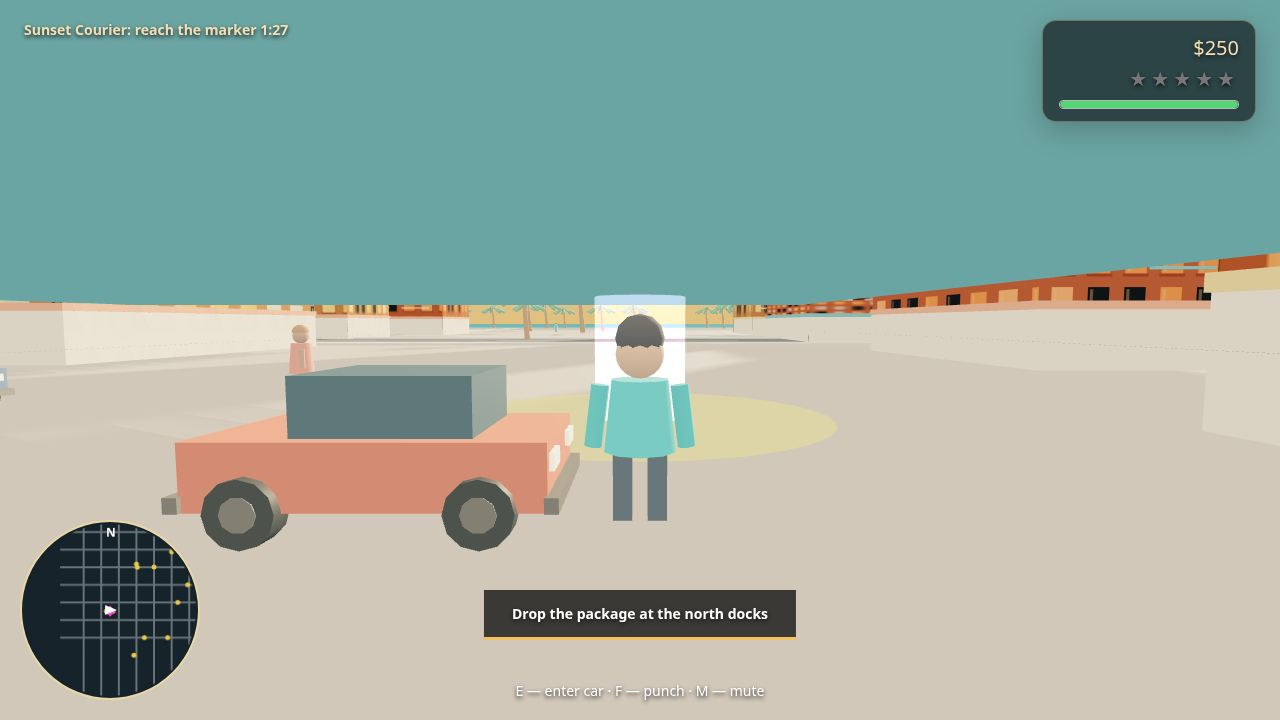
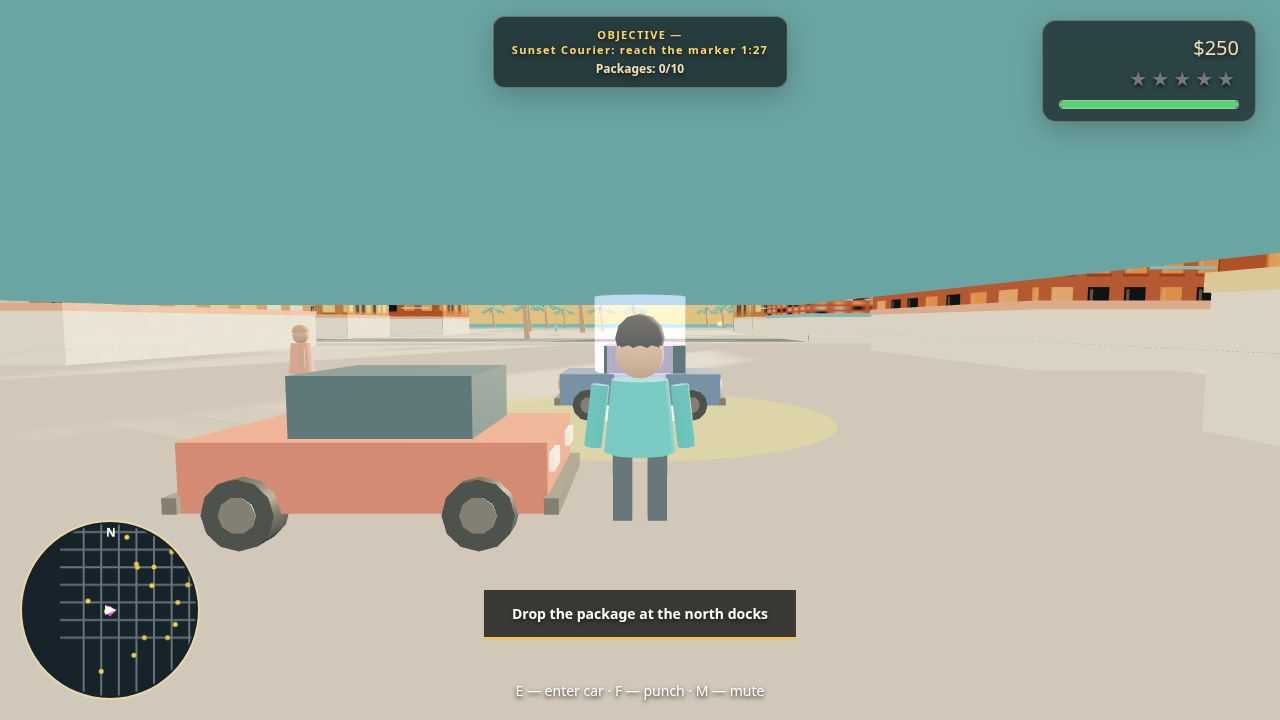
Round 5: side activities (hidden packages + street race), persistent objective HUD, minimap markers, roadblock chase staging

diff --git a/game/index.html b/game/index.html
@@ -6,11 +6,11 @@
 <title>Costa Serena</title>
 <style>
 *{box-sizing:border-box}html,body{margin:0;width:100%;height:100%;overflow:hidden;background:#292c30;color:#f3dfb5;font-family:system-ui,-apple-system,"Segoe UI",sans-serif}#game-canvas{display:block;width:100%;height:100%}#hud{position:fixed;left:24px;top:20px;text-shadow:0 2px 4px #29221d;font-size:14px;pointer-events:none}#debug{position:fixed;right:16px;top:16px;padding:8px 10px;background:#241f1bcc;color:#f5d76e;font:12px ui-monospace,monospace}#debug[hidden]{display:none}#start-screen{position:fixed;inset:0;display:flex;flex-direction:column;align-items:center;justify-content:center;text-align:center;background:linear-gradient(180deg,#8e493d99,#322b2acc);backdrop-filter:blur(4px)}#start-screen.hidden{display:none}h1{margin:0;color:#f0b36e;font-size:clamp(44px,8vw,88px);letter-spacing:.09em;text-shadow:0 5px 0 #793f32}p{margin:8px 0 22px;font-size:18px}.controls{line-height:1.9;color:#eed8ae;margin:0 0 22px}button{border:0;background:#c96f4a;color:#fff0d0;padding:13px 25px;margin:5px;min-width:190px;font:700 15px system-ui;letter-spacing:.06em;cursor:pointer;box-shadow:0 4px 0 #773e32}button:hover{background:#d98558}button[hidden]{display:none}
-#hud{left:0;top:0;width:100%;height:100%;text-shadow:0 2px 4px #171717}#cs-objective{position:absolute;left:24px;top:20px;max-width:40vw;font-weight:700}#cs-stats{position:absolute;right:24px;top:20px;text-align:right;font-size:20px;padding:13px 16px 12px;background:rgba(19,31,35,.72);border:1px solid rgba(255,225,173,.32);border-radius:14px;box-shadow:0 8px 28px rgba(18,24,25,.25);backdrop-filter:blur(7px)}#cs-stars{color:#777;margin-top:4px;letter-spacing:4px}#cs-stars .lit{color:#ffd34d}.cs-health{width:180px;height:9px;margin-top:8px;background:#333;border:1px solid rgba(255,255,255,.65);border-radius:8px;overflow:hidden}.cs-health i{border-radius:8px}.cs-health i{display:block;width:100%;height:100%;background:#57d476}#cs-hint{position:absolute;bottom:20px;left:50%;transform:translateX(-50%);color:#fff}#cs-banner{display:none;position:absolute;bottom:80px;left:50%;transform:translateX(-50%);background:#151515cc;padding:14px 28px;border-bottom:3px solid #f2c35e;color:#fff;font-weight:700}#cs-center{display:none;position:absolute;inset:0;align-items:center;justify-content:center;flex-direction:column;background:#160d0aaa;color:#ffdf96;font-size:clamp(40px,9vw,90px);font-weight:900}#cs-center small{font-size:18px}#cs-flash{position:absolute;inset:0;opacity:0;transition:opacity .2s;box-shadow:inset 0 0 100px 45px #e22;pointer-events:none}#cs-minimap{position:fixed;left:20px;bottom:20px;width:180px;height:180px;border:2px solid #e8d7a9;border-radius:50%;background:#17232a;pointer-events:none}body:has(#cs-minimap){cursor:default}
+#hud{left:0;top:0;width:100%;height:100%;text-shadow:0 2px 4px #171717}#cs-objective{position:absolute;left:50%;top:16px;transform:translateX(-50%);min-width:260px;max-width:min(620px,70vw);padding:10px 18px;background:rgba(19,31,35,.78);border:1px solid rgba(255,225,173,.32);border-radius:12px;text-align:center;font-weight:700;color:#f5dfb4;box-shadow:0 8px 28px rgba(18,24,25,.25);backdrop-filter:blur(7px)}#cs-objective span{display:block}#cs-objective .cs-objective-title{color:#ffd56a;font-size:11px;letter-spacing:.12em}#cs-objective .cs-packages{margin-top:3px;font-size:12px;color:#f3dfb5}#cs-stats{position:absolute;right:24px;top:20px;text-align:right;font-size:20px;padding:13px 16px 12px;background:rgba(19,31,35,.72);border:1px solid rgba(255,225,173,.32);border-radius:14px;box-shadow:0 8px 28px rgba(18,24,25,.25);backdrop-filter:blur(7px)}#cs-stars{color:#777;margin-top:4px;letter-spacing:4px}#cs-stars .lit{color:#ffd34d}.cs-health{width:180px;height:9px;margin-top:8px;background:#333;border:1px solid rgba(255,255,255,.65);border-radius:8px;overflow:hidden}.cs-health i{border-radius:8px}.cs-health i{display:block;width:100%;height:100%;background:#57d476}#cs-hint{position:absolute;bottom:20px;left:50%;transform:translateX(-50%);color:#fff}#cs-banner{display:none;position:absolute;bottom:80px;left:50%;transform:translateX(-50%);background:#151515cc;padding:14px 28px;border-bottom:3px solid #f2c35e;color:#fff;font-weight:700}#cs-center{display:none;position:absolute;inset:0;align-items:center;justify-content:center;flex-direction:column;background:#160d0aaa;color:#ffdf96;font-size:clamp(40px,9vw,90px);font-weight:900}#cs-center small{font-size:18px}#cs-flash{position:absolute;inset:0;opacity:0;transition:opacity .2s;box-shadow:inset 0 0 100px 45px #e22;pointer-events:none}#cs-minimap{position:fixed;left:20px;bottom:20px;width:180px;height:180px;border:2px solid #e8d7a9;border-radius:50%;background:#17232a;pointer-events:none}body:has(#cs-minimap){cursor:default}
 </style>
 </head>
 <body>
 <canvas id="game-canvas"></canvas><div id="hud"></div><div id="debug" hidden></div>
 <section id="start-screen"><h1>COSTA SERENA</h1><p>A sunlit city with a dangerous side.</p><div class="controls">WASD move · Shift run · E enter/exit car · Space handbrake<br>F punch · M mute · Mouse look · Esc pause</div><div><button id="start-story">START STORY</button><button id="continue" hidden>CONTINUE</button><button id="free-roam">FREE ROAM</button></div></section>
-<script src="vendor/three.min.js"></script><script src="src/config.js"></script><script src="src/input.js"></script><script src="src/city.js"></script><script src="src/vehicles.js"></script><script src="src/traffic.js"></script><script src="src/pedestrians.js"></script><script src="src/player.js"></script><script src="src/police.js"></script><script src="src/combat.js"></script><script src="src/missions.js"></script><script src="src/hud.js"></script><script src="src/minimap.js"></script><script src="src/audio.js"></script><script src="src/save.js"></script><script src="src/shots.js"></script><script src="src/main.js"></script>
+<script src="vendor/three.min.js"></script><script src="src/config.js"></script><script src="src/input.js"></script><script src="src/city.js"></script><script src="src/vehicles.js"></script><script src="src/traffic.js"></script><script src="src/pedestrians.js"></script><script src="src/player.js"></script><script src="src/police.js"></script><script src="src/combat.js"></script><script src="src/missions.js"></script><script src="src/hud.js"></script><script src="src/minimap.js"></script><script src="src/audio.js"></script><script src="src/save.js"></script><script src="src/activities.js"></script><script src="src/shots.js"></script><script src="src/main.js"></script>
 </body></html>

diff --git a/game/src/activities.js b/game/src/activities.js
@@ -1,0 +1,77 @@
+(function () {
+  const packageSpots = [
+    { x: -420, z: 650 }, { x: 365, z: 590 }, { x: -510, z: 170 }, { x: 455, z: 120 },
+    { x: -245, z: -265 }, { x: 275, z: -315 }, { x: -75, z: 65 }, { x: 520, z: -145 },
+    { x: -350, z: -520 }, { x: 85, z: 330 }
+  ];
+  const checkpoints = [
+    { x: 185, z: 455 }, { x: 300, z: 360 }, { x: 265, z: 170 },
+    { x: 80, z: 45 }, { x: -175, z: 145 }, { x: -300, z: 390 }
+  ];
+  let packages = [], startRing = null, checkpointRing = null, scene = null;
+  let race = 'idle', checkpoint = 0, timer = 0, elapsed = 0;
+  function makeRing(color, radius) {
+    const ring = new THREE.Mesh(new THREE.TorusGeometry(radius, 0.7, 10, 32), new THREE.MeshBasicMaterial({ color, transparent: true, opacity: .9, depthWrite: false }));
+    ring.rotation.x = Math.PI / 2; ring.position.y = 1.2; return ring;
+  }
+  function makeStartRing() {
+    const group = new THREE.Group(); group.position.set(60, 1.1, 455);
+    for (let i = 0; i < 12; i++) {
+      const arc = new THREE.Mesh(new THREE.TorusGeometry(6, .7, 8, 8, Math.PI * 2 / 12 * .82), new THREE.MeshBasicMaterial({ color: i % 2 ? 0xffd451 : 0xfff0b0, transparent: true, opacity: .95, depthWrite: false }));
+      arc.rotation.x = Math.PI / 2; arc.rotation.z = i * Math.PI * 2 / 12; group.add(arc);
+    }
+    return group;
+  }
+  function init() {
+    scene = CS.main.scene();
+    if (CS.save && typeof CS.save.load === 'function') { const saved = CS.save.load(); if (saved) CS.state.hiddenPackages = saved.hiddenPackages || 0; }
+    const crateMat = new THREE.MeshStandardMaterial({ color: 0xe6a83d, emissive: 0x9a4a0d, emissiveIntensity: .8, metalness: .25, roughness: .35 });
+    const glowTextureCanvas = document.createElement('canvas'); glowTextureCanvas.width = glowTextureCanvas.height = 64;
+    const ctx = glowTextureCanvas.getContext('2d'), gradient = ctx.createRadialGradient(32, 32, 2, 32, 32, 32);
+    gradient.addColorStop(0, 'rgba(255,220,100,.9)'); gradient.addColorStop(1, 'rgba(255,170,30,0)'); ctx.fillStyle = gradient; ctx.fillRect(0, 0, 64, 64);
+    const glowTexture = new THREE.CanvasTexture(glowTextureCanvas);
+    packageSpots.forEach((pos, i) => {
+      const group = new THREE.Group(); group.position.set(pos.x, 0, pos.z);
+      const box = new THREE.Mesh(new THREE.BoxGeometry(1.35, 1.05, 1.15), crateMat); box.position.y = .7; box.castShadow = true; group.add(box);
+      const glow = new THREE.Sprite(new THREE.SpriteMaterial({ map: glowTexture, color: 0xffd86b, transparent: true, opacity: .75, blending: THREE.AdditiveBlending, depthWrite: false }));
+      glow.position.y = 1.1; glow.scale.set(4.8, 4.8, 1); group.add(glow); group.userData.phase = i * .8; scene.add(group);
+      const collected = i < packageCount(); group.visible = !collected; packages.push({ group, position: pos, collected });
+    });
+    startRing = makeStartRing(); scene.add(startRing);
+    checkpointRing = makeRing(0x32e5ff, 7); checkpointRing.visible = false; scene.add(checkpointRing);
+  }
+  function packageCount() { return Math.max(0, Math.min(10, Number(CS.state.hiddenPackages) || 0)); }
+  function packagesLeft() { return Math.max(0, 10 - packageCount()); }
+  function packagePositions() { return packages.filter(item => !item.collected).map(item => item.position); }
+  function raceState() { return race === 'active' ? { active: true, checkpoint: checkpoint + 1, total: checkpoints.length, position: checkpoints[checkpoint], time: timer } : { active: false, state: race }; }
+  function say(text) { if (!(CS.shots && CS.shots.active())) CS.hud.banner(text, 2600); }
+  function persist() { if (CS.save && typeof CS.save.save === 'function') CS.save.save(); }
+  function finish(success) {
+    race = success ? 'complete' : 'failed'; checkpointRing.visible = false;
+    if (success) { CS.state.money = (CS.state.money || 0) + 750; say('Race complete — +$750'); if (CS.audio && CS.audio.sting) CS.audio.sting(); persist(); }
+    else say('Race failed');
+  }
+  function update(dt) {
+    if (!scene) return;
+    elapsed += dt;
+    packages.forEach(item => { if (!item.collected) { item.group.rotation.y += dt * .7; item.group.position.y = Math.sin(elapsed * 2 + item.group.userData.phase) * .18; } });
+    startRing.rotation.z += dt * .18;
+    if (CS.shots && CS.shots.active()) return;
+    const player = CS.player.state, p = player.position;
+    packages.forEach((item, i) => {
+      if (item.collected || Math.hypot(p.x - item.position.x, p.z - item.position.z) >= 4) return;
+      item.collected = true; item.group.visible = false; CS.state.hiddenPackages = packageCount() + 1; CS.state.money = (CS.state.money || 0) + 100;
+      say('Hidden package ' + packageCount() + '/10 — +$100'); if (CS.audio && CS.audio.sting) CS.audio.sting(); persist();
+    });
+    if (race === 'idle' && player.inCar && Math.hypot(p.x - 60, p.z - 455) < 7) { race = 'active'; checkpoint = 0; timer = 90; checkpointRing.visible = true; say('Street race started — 90 seconds'); }
+    if (race !== 'active') return;
+    timer -= dt; if (timer <= 0) { finish(false); return; }
+    const target = checkpoints[checkpoint]; checkpointRing.position.set(target.x, 1.2, target.z);
+    if (Math.hypot(p.x - target.x, p.z - target.z) < 9) {
+      checkpoint++; timer += 8;
+      if (checkpoint >= checkpoints.length) finish(true);
+      else say('Checkpoint ' + checkpoint + '/6');
+    }
+  }
+  CS.activities = { init, update, packageCount, packagesLeft, raceState, packagePositions };
+}());

diff --git a/game/src/shots.js b/game/src/shots.js
@@ -22,11 +22,13 @@
       putTraffic([[0, 12, 455, Math.PI / 2], [1, 22, 455, Math.PI / 2], [2, 31, 455, Math.PI / 2]]);
       putPeople([[0, -7, 482, 1.1], [1, 4, 484, -.7], [2, 16, 481, 2.1], [3, 27, 485, -1.8], [4, -19, 480, .2], [5, 37, 482, 2.8], [6, -31, 484, -1]]);
       camera.position.set(-16, 3.3, 438); camera.lookAt(7, 1.2, 488);
-      CS.hud.banner('Find a set of wheels.', Infinity);
+      CS.hud.banner('Find a set of wheels — the Serena story begins.', Infinity);
     }
     if (shot === 'chase') {
+      CS.missions.startMission(2);
       const car = cars[0]; placeCar(car, 180, -180, -Math.PI / 4); car.userData.speed = 25; car.userData.steer = .6; setPlayer(180, -180, car);
       CS.police.setStars(3); policeCar(186, -194, 0); policeCar(206, -180, -Math.PI / 2);
+      policeCar(196, -164, .6); policeCar(210, -168, -.5);
       putTraffic([[0, 180, -132, Math.PI], [1, 132, -180, Math.PI / 2], [2, 228, -180, -Math.PI / 2]]);
       putPeople([[0, 191, -166, .7], [1, 169, -194, 2.5], [2, 192, -195, -1], [3, 168, -165, 1.5]]);
       camera.position.set(172, 4, -208); camera.lookAt(180, 1, -180);
@@ -37,16 +39,18 @@
       const marker = CS.missions.markerPos(), px = marker.x, pz = marker.z - 8;
       setPlayer(px, pz); CS.player.setView(-Math.PI / 2, .15);
       const car = cars[0]; placeCar(car, px + 3, pz, Math.PI / 2);
-      putTraffic([[0, marker.x + 20, marker.z, Math.PI / 2], [1, marker.x - 25, marker.z, -Math.PI / 2]]);
+      putTraffic([[0, marker.x, marker.z, Math.PI / 2], [1, marker.x - 25, marker.z, -Math.PI / 2]]);
       putPeople([[0, px - 12, pz - 2, 1], [1, px + 12, pz - 2, 2], [2, marker.x + 12, marker.z + 5, -1]]);
-      camera.position.set(px, 2.5, pz - 7); camera.lookAt(marker.x, 1.5, marker.z);
+      // Framing: player, parked car, objective ring, beacon and label all in frame.
+      camera.position.set(px, 2.5, pz - 7);
+      camera.lookAt(marker.x, 1.5, marker.z);
       CS.hud.banner('Drop the package at the north docks', Infinity);
     }
     if (shot === 'city') {
       const car = cars[0]; placeCar(car, 0, 455, -Math.PI / 2); setPlayer(0, 455, car);
-      putTraffic([[0, 18, 455, Math.PI / 2], [1, -27, 455, -Math.PI / 2], [2, 34, 455, Math.PI / 2], [3, 0, 360, 0], [4, 120, 365, Math.PI]]);
-      putPeople([[0, -12, 480, 1], [1, 6, 483, 2], [2, 24, 479, -.5], [3, 36, 484, 2.5], [4, -34, 482, 0], [5, 50, 481, 1.4]]);
-      camera.position.set(18, 52, 518); camera.lookAt(0, 0, 414);
+      putTraffic([[0, 18, 455, Math.PI / 2], [1, -27, 455, -Math.PI / 2], [2, 34, 455, Math.PI / 2], [3, 0, 360, 0], [4, 120, 365, Math.PI], [5, -75, 455, Math.PI / 2], [6, 75, 455, -Math.PI / 2], [7, -35, 360, 0], [8, 155, 365, Math.PI]]);
+      putPeople([[0, -12, 480, 1], [1, 6, 483, 2], [2, 24, 479, -.5], [3, 36, 484, 2.5], [4, -34, 482, 0], [5, 50, 481, 1.4], [6, -48, 478, .8], [7, 68, 484, 2.2], [8, 42, 468, -1], [9, -25, 468, 1.7]]);
+      camera.position.set(18, 44, 518); camera.lookAt(0, 0, 414);
       CS.hud.banner('Welcome to Costa Serena.', Infinity);
     }
   }

diff --git a/game/src/main.js b/game/src/main.js
@@ -8,7 +8,7 @@
     CS.player.create(scene); CS.player.setCamera(camera); CS.input.init(canvas);
     CS.hud.init(); CS.minimap.init(); CS.police.init(scene); CS.audio.init();
     CS.vehicles.spawnParkedCars(scene, 42); CS.traffic.spawn(scene, 22); CS.pedestrians.spawn(scene, 34);
-    CS.main = { init, start, loop, scene: () => scene, camera: () => camera };
+    CS.main = { init, start, loop, scene: () => scene, camera: () => camera }; CS.activities.init();
     const overlay = document.getElementById('start-screen'), continueButton = document.getElementById('continue');
     document.getElementById('start-story').addEventListener('click', () => start('story')); document.getElementById('free-roam').addEventListener('click', () => start('free')); continueButton.addEventListener('click', () => start('continue'));
     if (CS.save.hasSave()) continueButton.hidden = false;
@@ -34,11 +34,11 @@
       const inCar = CS.player.state.inCar; if (inCar && inCar !== lastCar) { CS.police.addHeat(1); CS.audio.pickup(); } lastCar = inCar;
       safeUpdate(CS.traffic.update, dt); safeUpdate(CS.pedestrians.update, dt);
       const ps = CS.player.state; safeUpdate(CS.police.update, dt, ps.position, ps.inCar, ps.inCar ? Math.abs(ps.inCar.userData.speed) : 0);
-      safeUpdate(CS.combat.update, dt); safeUpdate(CS.missions.update, dt); safeUpdate(CS.hud.update, dt); safeUpdate(CS.minimap.update, dt);
+      safeUpdate(CS.combat.update, dt); safeUpdate(CS.missions.update, dt); safeUpdate(CS.activities.update, dt); safeUpdate(CS.hud.update, dt); safeUpdate(CS.minimap.update, dt);
       safeUpdate(() => { CS.audio.engine(ps.inCar ? Math.abs(ps.inCar.userData.speed) / CS.config.car.topSpeed : 0); CS.audio.siren(CS.police.getStars() > 0); CS.audio.ambient(); }, dt);
       saveElapsed += dt; if (saveElapsed >= 15) { CS.save.save(); saveElapsed = 0; }
       scene.traverse(object => { if (object.userData && object.userData.animate) object.userData.animate(time / 1000); });
-    } else if (CS.shots.active()) { safeUpdate(CS.hud.update, dt); safeUpdate(CS.minimap.update, dt); }
+    } else if (CS.shots.active()) { safeUpdate(CS.activities.update, dt); safeUpdate(CS.hud.update, dt); safeUpdate(CS.minimap.update, dt); }
     renderer.render(scene, camera); frames++;
     if (time - fpsTime > 500) { const state = CS.player.state; document.getElementById('debug').textContent = `FPS ${Math.round(frames * 1000 / Math.max(1, time - fpsTime))} | X ${state.position.x.toFixed(1)} Z ${state.position.z.toFixed(1)}`; frames = 0; fpsTime = time; }
   }

diff --git a/game/src/hud.js b/game/src/hud.js
@@ -1,9 +1,10 @@
 (function () {
-  let root, bannerNode, centerNode, flashNode, bannerUntil = 0, centerUntil = 0;
+  let root, bannerNode, centerNode, flashNode, objectiveNode, objectiveText = '', bannerUntil = 0, centerUntil = 0;
   function init() {
     root = document.getElementById('hud');
-    root.innerHTML = '<div id="cs-objective"></div><div id="cs-stats"><div id="cs-money"></div><div id="cs-stars"></div><div class="cs-health"><i id="cs-health-fill"></i></div></div><div id="cs-hint"></div><div id="cs-banner"></div><div id="cs-center"></div><div id="cs-flash"></div>';
+    root.innerHTML = '<div id="cs-objective"><span class="cs-objective-title">OBJECTIVE — <span class="cs-objective-value"></span></span><span class="cs-packages"></span></div><div id="cs-stats"><div id="cs-money"></div><div id="cs-stars"></div><div class="cs-health"><i id="cs-health-fill"></i></div></div><div id="cs-hint"></div><div id="cs-banner"></div><div id="cs-center"></div><div id="cs-flash"></div>';
     bannerNode = document.getElementById('cs-banner'); centerNode = document.getElementById('cs-center'); flashNode = document.getElementById('cs-flash');
+    objectiveNode = document.getElementById('cs-objective');
   }
   function banner(text, ms) {
     bannerNode.textContent = text || '';
@@ -18,8 +19,10 @@
     document.getElementById('cs-money').textContent = '$' + (CS.state.money || 0).toLocaleString('en-US');
     document.getElementById('cs-stars').innerHTML = Array.from({ length: 5 }, (_, i) => '<span class="' + (i < stars ? 'lit' : '') + '">★</span>').join('');
     document.getElementById('cs-health-fill').style.width = Math.max(0, CS.combat ? CS.combat.health : 100) + '%';
-    const objective = CS.missions && CS.missions.currentObjective();
-    document.getElementById('cs-objective').textContent = objective || 'Free roam';
+    const objective = CS.missions && CS.missions.currentObjective() || 'Free roam';
+    if (objective !== objectiveText) { objectiveText = objective; objectiveNode.querySelector('.cs-objective-value').textContent = objective; }
+    const packagesNode = objectiveNode.querySelector('.cs-packages');
+    packagesNode.textContent = typeof CS.activities !== 'undefined' ? 'Packages: ' + CS.activities.packageCount() + '/10' : '';
     const player = CS.player.state;
     document.getElementById('cs-hint').textContent = player.inCar ? 'E — exit car · Space — handbrake' : 'E — enter car  ·  F — punch  ·  M — mute';
     if (performance.now() > bannerUntil) bannerNode.style.display = 'none';

diff --git a/game/src/minimap.js b/game/src/minimap.js
@@ -8,6 +8,10 @@
     CS.city.roadGrid.forEach(road => { ctx.beginPath(); if (road.vertical) { ctx.moveTo(road.x * scale, -100); ctx.lineTo(road.x * scale, 1300 * scale); } else { ctx.moveTo(-700 * scale, road.z * scale); ctx.lineTo(700 * scale, road.z * scale); } ctx.stroke(); });
     CS.traffic.cars.forEach(car => dot(car.position, '#e9c948', scale)); CS.police.cars().forEach(car => dot(car.position, '#49a6ff', scale));
     const marker = CS.missions.markerPos(); if (marker) { ctx.fillStyle = '#ff42d2'; ctx.save(); ctx.translate(marker.x * scale, marker.z * scale); ctx.rotate(Math.PI / 4); ctx.fillRect(-4, -4, 8, 8); ctx.restore(); }
+    if (typeof CS.activities !== 'undefined') {
+      CS.activities.packagePositions().forEach(pos => dot(pos, '#ffd34d', scale));
+      const race = CS.activities.raceState(); if (race.active && race.position) dot(race.position, '#32e5ff', scale);
+    }
     ctx.restore(); ctx.save(); ctx.translate(90, 90); ctx.rotate(-CS.player.state.yaw); ctx.fillStyle = '#fff'; ctx.beginPath(); ctx.moveTo(0, -7); ctx.lineTo(-5, 5); ctx.lineTo(5, 5); ctx.fill(); ctx.restore();
     ctx.fillStyle = '#fff'; ctx.font = 'bold 12px system-ui'; ctx.fillText('N', 86, 15);
   }

diff --git a/game/src/save.js b/game/src/save.js
@@ -3,7 +3,7 @@
   function save() {
     try {
       const p = CS.player.state.position;
-      localStorage.setItem(key, JSON.stringify({ money: CS.state.money, missionIndex: CS.missions.index(), completed: CS.missions.completed(), health: CS.combat.health, pos: { x: p.x, z: p.z }, at: Date.now() }));
+      localStorage.setItem(key, JSON.stringify({ money: CS.state.money, hiddenPackages: CS.state.hiddenPackages || 0, missionIndex: CS.missions.index(), completed: CS.missions.completed(), health: CS.combat.health, pos: { x: p.x, z: p.z }, at: Date.now() }));
       return true;
     } catch (_) { return false; }
   }

diff --git a/main.ts b/main.ts
@@ -21,7 +21,7 @@ import { buildDossier } from './vendor/makefun-game.ts';
 const here = fileURLToPath(new URL('.', import.meta.url));
 const out = process.env.MAKEFUN_OUTPUT_DIR ?? '/output';
 const GAME_TITLE = 'Costa Serena';
-const GAME_VERSION = '1.0.2';
+const GAME_VERSION = '1.0.5';
 console.log(`Packaging ${GAME_TITLE} v${GAME_VERSION}`);
 
 mkdirSync(out, { recursive: true });
